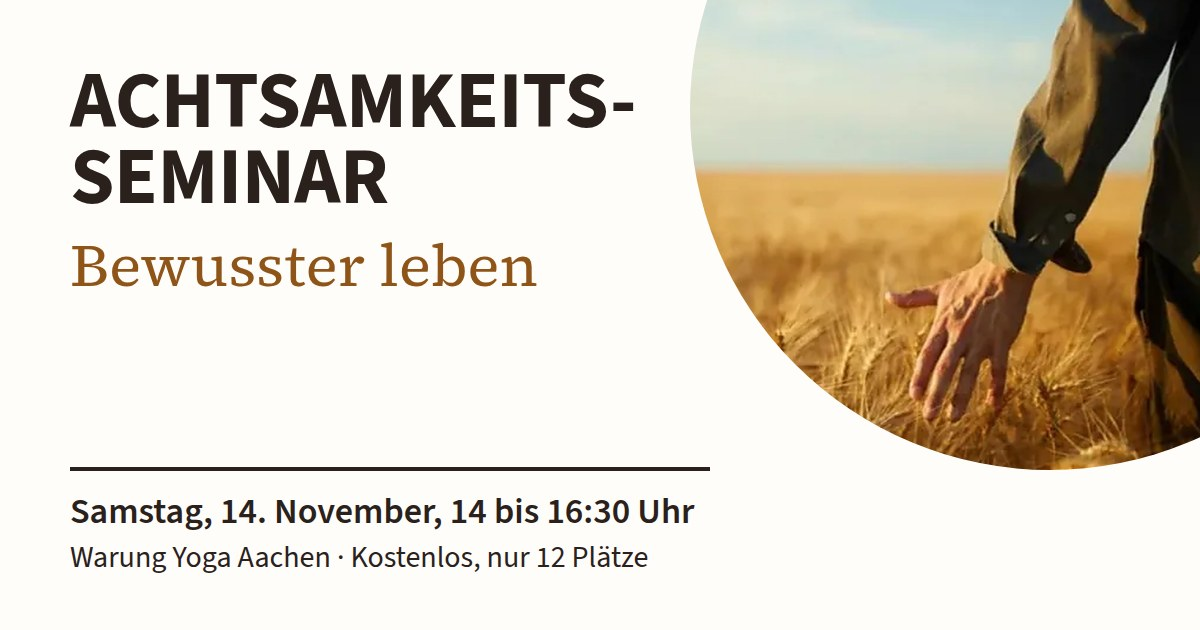
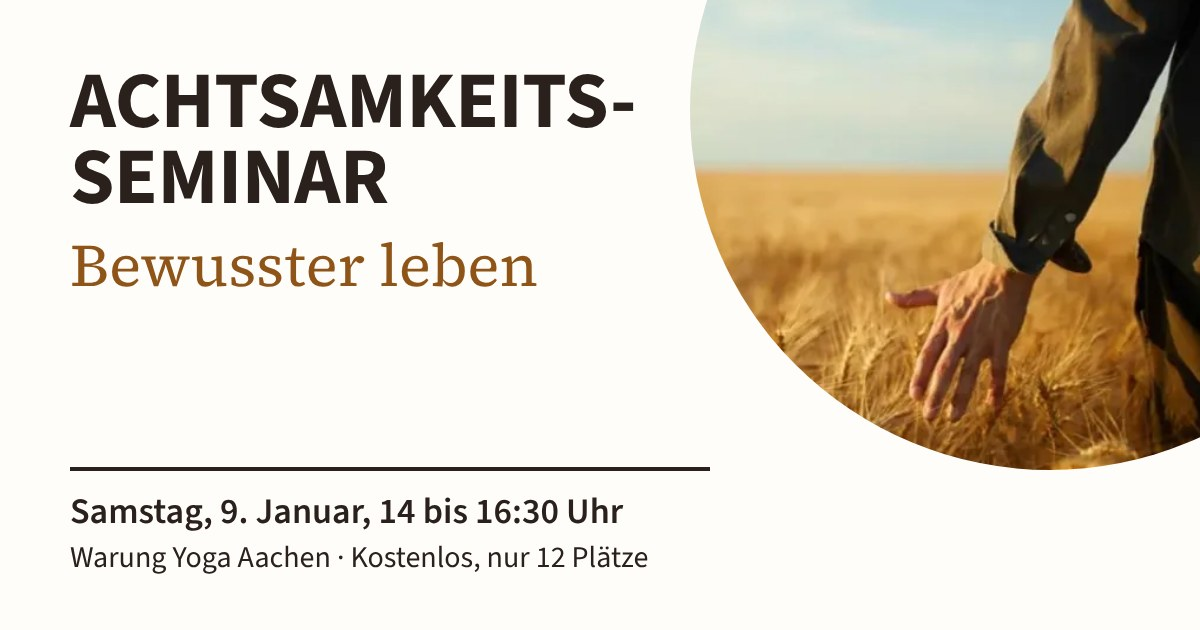
Seminar: neuer Termin Sa 9.1.2027, Anmeldung bis Mi 6.1., Vorschaubild neu
Claude-Session: https://claude.ai/code/session_01UKg8erKHmN4bGUkgYxNMY5

diff --git a/CLAUDE.md b/CLAUDE.md
@@ -255,7 +255,7 @@ Bilder `seminar-*` stammen aus
 dem PDF. Termin nur in `inhalt/seminar.json` pflegen: Seite (Kurzinfo und Anmeldung oben, `#anmelden`), Angebotskarte
 (`"seminar": true`), Kalenderdatei `/achtsamkeitsseminar/termin.ics` und Bestätigungsseite `/angemeldet/` folgen daraus.
 Anmeldung: nur Vorname + E-Mail über Web3Forms; Nikolas nimmt 2–3 Anmeldungen mehr an als Plätze (Absagen-Puffer)
-und schickt am Vortag eine Erinnerungsmail. Pilot kostenlos gegen Feedback (Okt. 2026), Ort Warung Yoga Aachen. Der Pilot am 14.11.2026 wurde am 3.11. verschoben (Grund in der Mail: „mir ist etwas dazwischengekommen“), die 6 Angemeldeten haben eine Mail bekommen und erhalten eine neue Einladung, sobald das Datum steht; bis dahin `datum` und `anmeldeschluss` leer, Seite zeigt „in Planung“. Seminar-Leitfaden mit Kursplan, Materialliste
+und schickt am Vortag eine Erinnerungsmail. Pilot kostenlos gegen Feedback (Okt. 2026), Ort Warung Yoga Aachen. Der Pilot am 14.11.2026 wurde am 3.11. verschoben (Grund in der Mail: „mir ist etwas dazwischengekommen“), neuer Termin Sa 9.1.2027, Anmeldung bis Mi 6.1. (Nikolas, 5.11.). Seminar-Leitfaden mit Kursplan, Materialliste
 und Druckvorlagen liegt als Claude-Doc bei Nikolas (nicht im Repo).
 Format: 150 Minuten mit Pause, kleine Gruppe, drinnen (keine Gehmeditation, kein Schweigeessen – wetter- bzw.
 zeitabhängig). Maslow: Mangelbedürfnisse lassen sich stillen, Selbstverwirklichung und Transzendenz sind Sehnsüchte,
